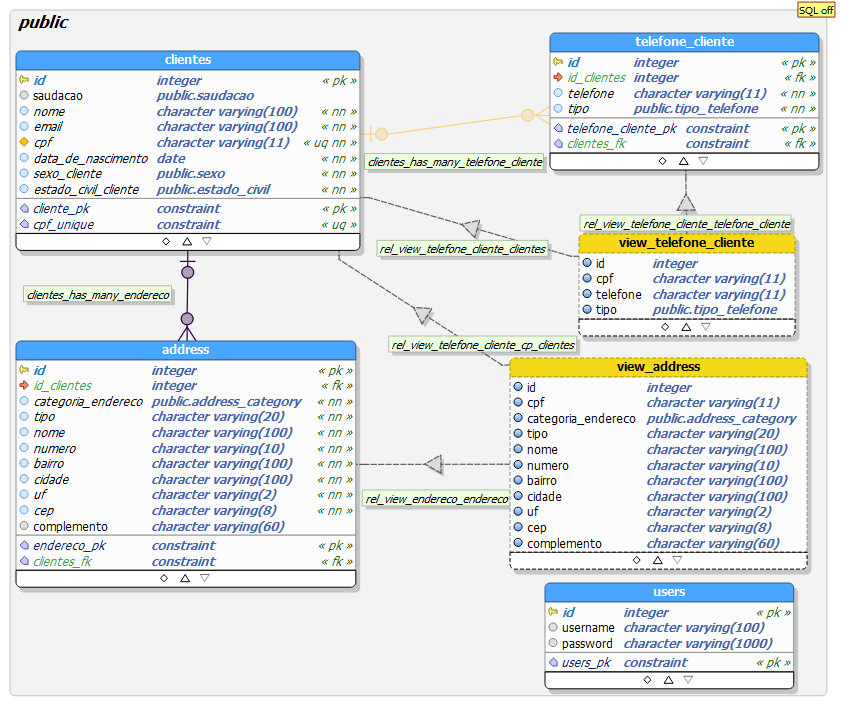
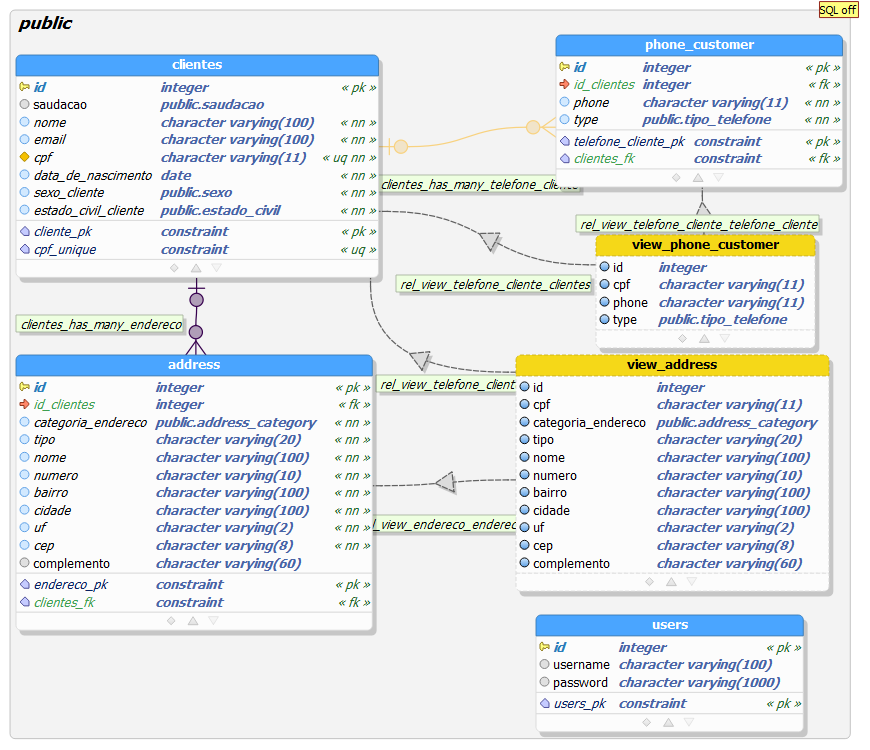
:recycle: Refatoração do código

Changed region(s): [[0.0, 0.0, 0.9835, 0.9958], [0.922, 0.0, 1.0, 0.0311]]

diff --git a/view/user_login.php b/view/user_login.php
@@ -12,8 +12,25 @@
   </head>
   <body>
   <div class="px-3 py-3 pt-md-5 pb-md-4 mx-auto text-center col-md-8 order-md-1">
+
   <div class="card">
+    <br>
+    <div class="form-row">
+      <div class="form-group col-md-6">
+        <label for="inputUsuario">Usuário: admin</label>
+      </div>
+      <div class="form-group col-md-6">
+        <label for="inputUsuario">Usuário: admin</label>
+      </div>
+    </div>
+  </div>
+  <br>
+
+  <div class="card">
+    
   <div class="card-body">
+
+  
 
   <form name="entrar" action="<?php echo URLROOT; ?>/user/login" method="post">
 

diff --git a/model/telefoneModel.php b/model/telefoneModel.php
@@ -71,7 +71,7 @@ class Telefone extends Connection{
     }
 
     function telefone_list(){
-        $sql_query = "SELECT * FROM view_telefone_cliente WHERE cpf = '" . $this->getCPF() . "'";
+        $sql_query = "SELECT * FROM view_phone_customer WHERE cpf = '" . $this->getCPF() . "'";
         $pdo = $this->o_db;
         $stmt = $pdo->prepare($sql_query);
         $array_telefone = array();
